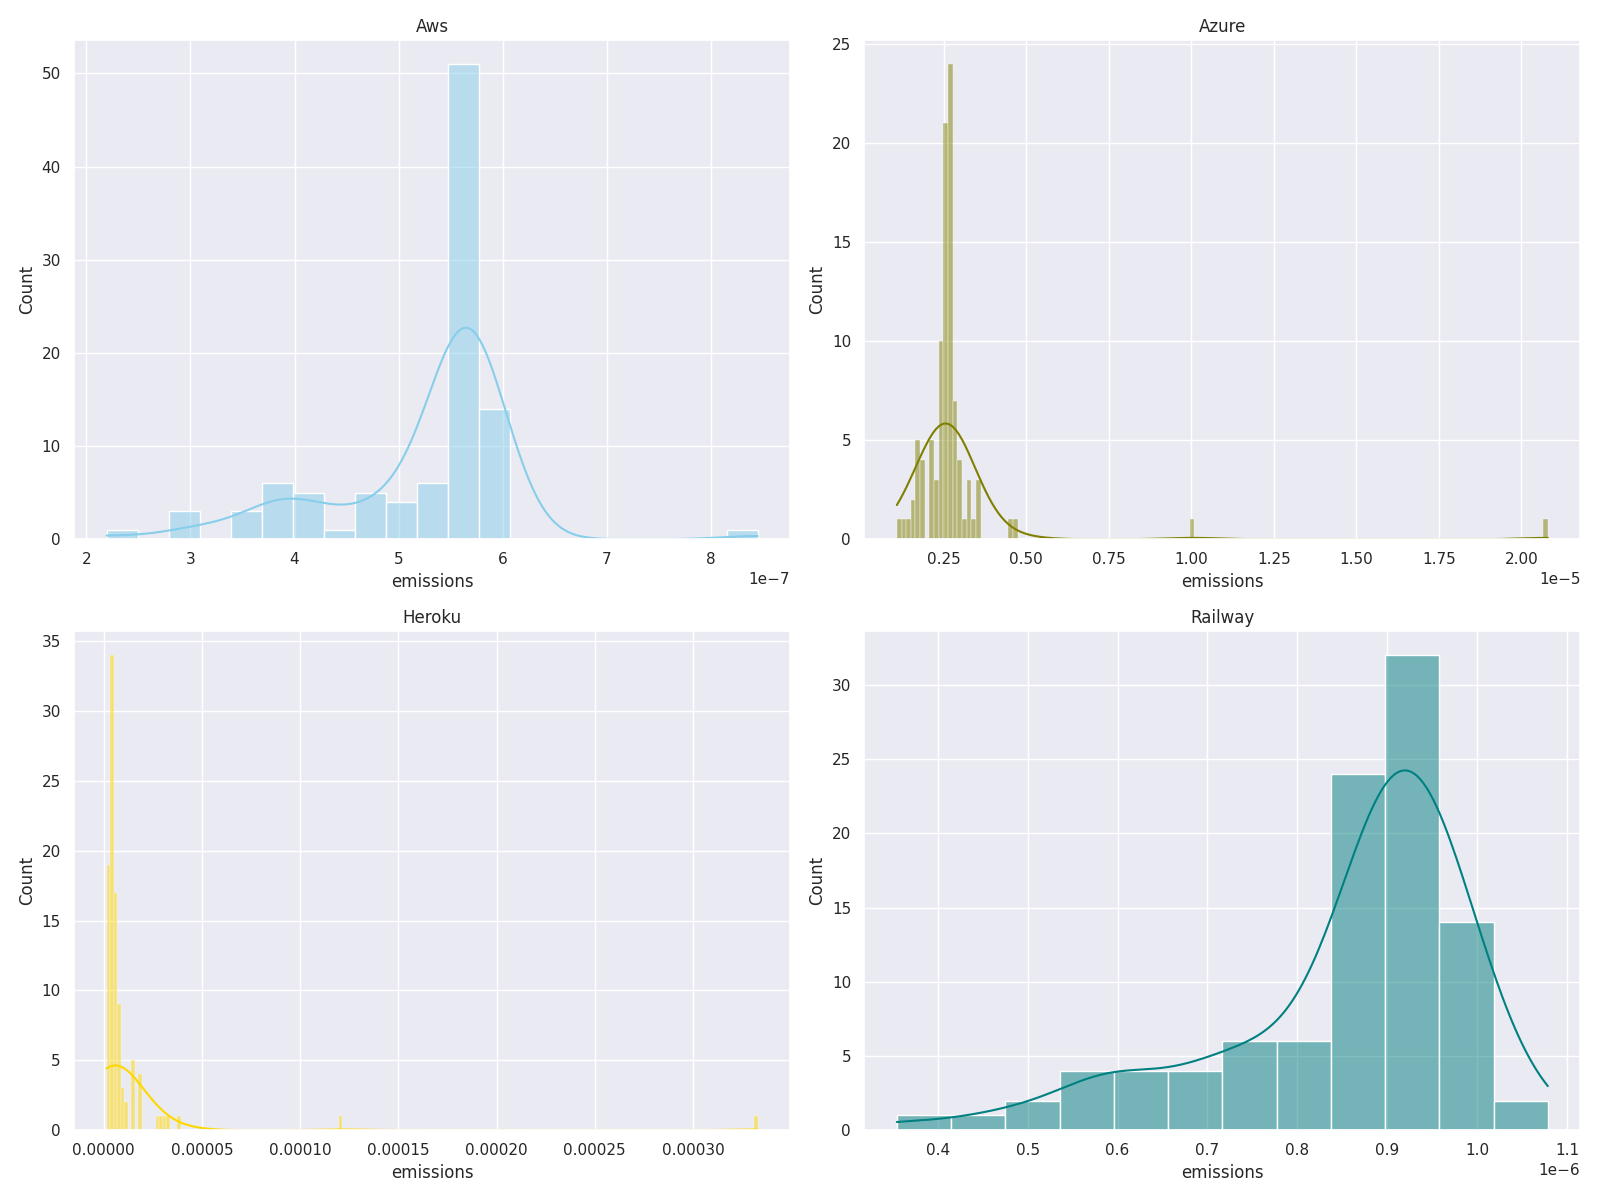
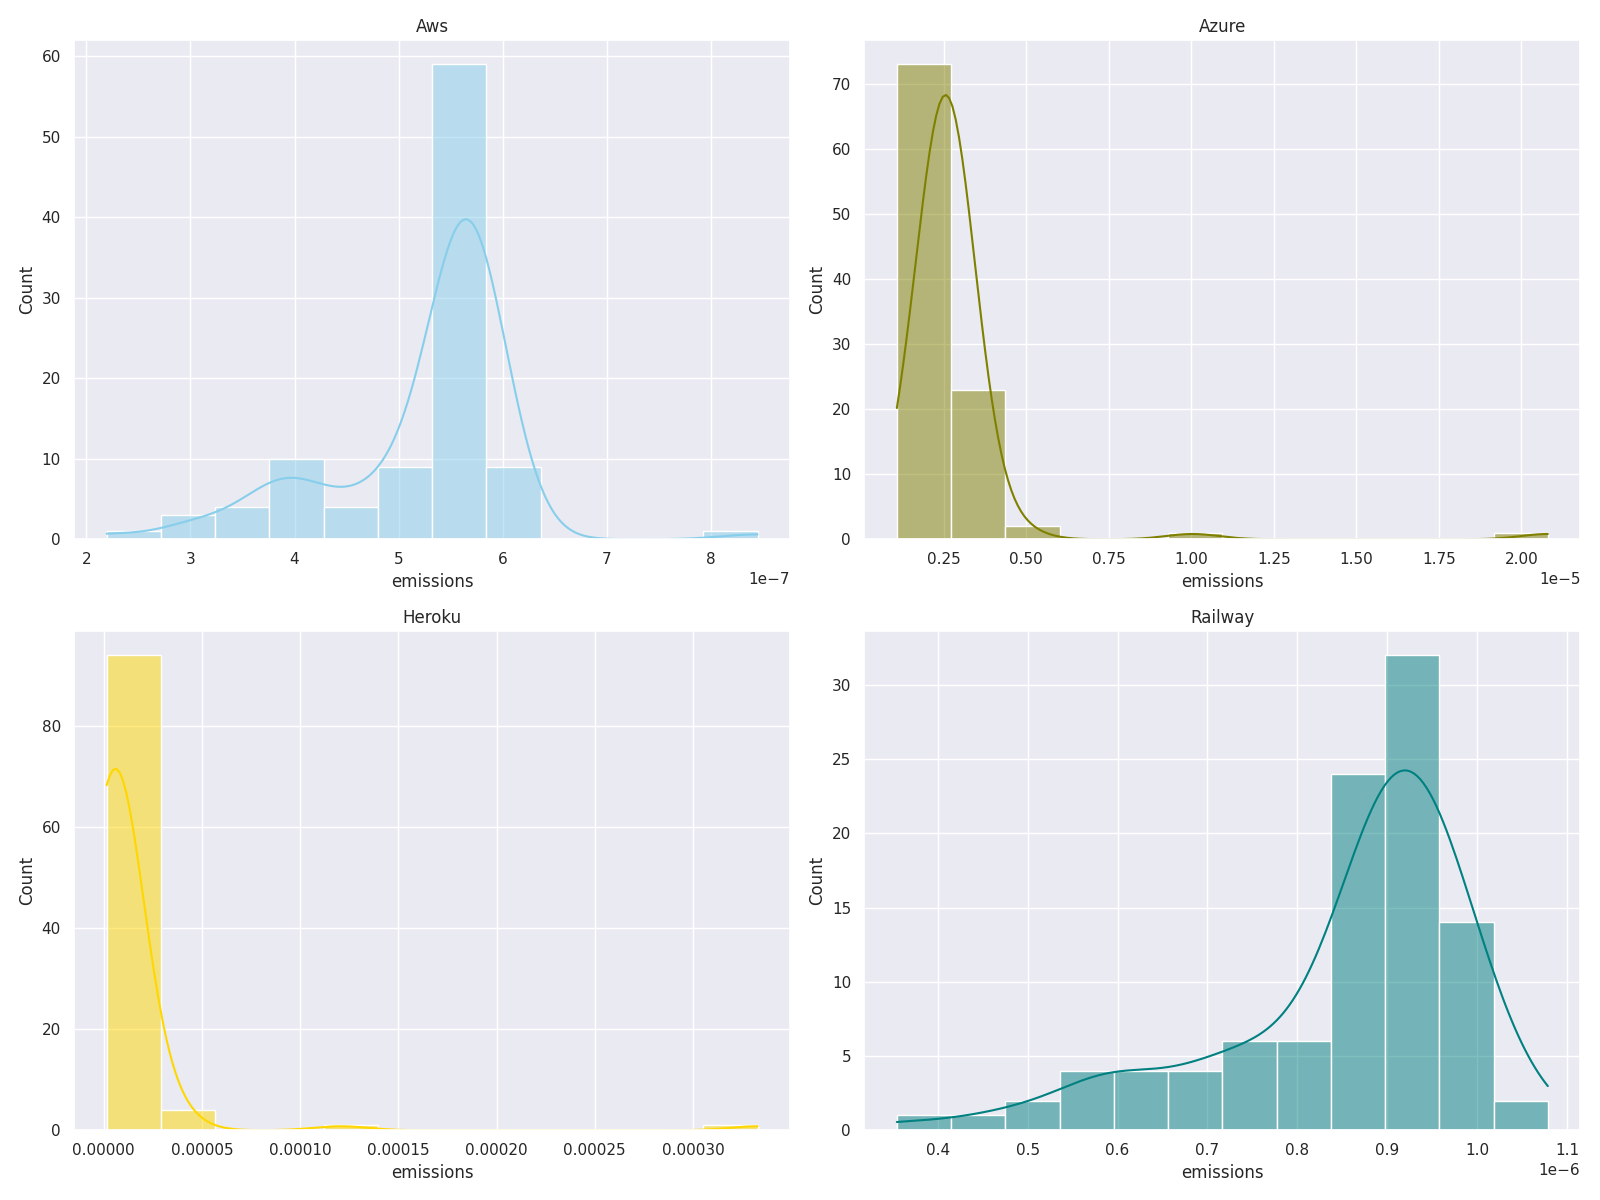
wip: change shown statistics in cliff test table

diff --git a/reports/report_figures/significance/dunn.html b/reports/report_figures/significance/dunn.html
@@ -1,11 +1,43 @@
+<link rel="stylesheet" type="text/css" href="df_style.css" />
+
 <table>
-<thead>
-<tr><th style="text-align: right;">        aws</th><th style="text-align: right;">      azure</th><th style="text-align: right;">     heroku</th><th style="text-align: right;">    railway</th></tr>
-</thead>
-<tbody>
-<tr><td style="text-align: right;">1          </td><td style="text-align: right;">8.68827e-36</td><td style="text-align: right;">1.84233e-67</td><td style="text-align: right;">1.13318e-07</td></tr>
-<tr><td style="text-align: right;">8.68827e-36</td><td style="text-align: right;">1          </td><td style="text-align: right;">8.3241e-06 </td><td style="text-align: right;">1.45247e-11</td></tr>
-<tr><td style="text-align: right;">1.84233e-67</td><td style="text-align: right;">8.3241e-06 </td><td style="text-align: right;">1          </td><td style="text-align: right;">1.55102e-31</td></tr>
-<tr><td style="text-align: right;">1.13318e-07</td><td style="text-align: right;">1.45247e-11</td><td style="text-align: right;">1.55102e-31</td><td style="text-align: right;">1          </td></tr>
-</tbody>
+  <thead>
+    <tr>
+      <th style="text-align: right"></th>
+      <th style="text-align: right">aws</th>
+      <th style="text-align: right">azure</th>
+      <th style="text-align: right">heroku</th>
+      <th style="text-align: right">railway</th>
+    </tr>
+  </thead>
+  <tbody>
+    <tr>
+      <td class="prov" style="text-align: right">aws</td>
+      <td style="text-align: right">1</td>
+      <td style="text-align: right">8.68827e-36</td>
+      <td style="text-align: right">1.84233e-67</td>
+      <td style="text-align: right">1.13318e-07</td>
+    </tr>
+    <tr>
+      <td class="prov" style="text-align: right">azure</td>
+      <td style="text-align: right">8.68827e-36</td>
+      <td style="text-align: right">1</td>
+      <td style="text-align: right">8.3241e-06</td>
+      <td style="text-align: right">1.45247e-11</td>
+    </tr>
+    <tr>
+      <td class="prov" style="text-align: right">heroku</td>
+      <td style="text-align: right">1.84233e-67</td>
+      <td style="text-align: right">8.3241e-06</td>
+      <td style="text-align: right">1</td>
+      <td style="text-align: right">1.55102e-31</td>
+    </tr>
+    <tr>
+      <td class="prov" style="text-align: right">railway</td>
+      <td style="text-align: right">1.13318e-07</td>
+      <td style="text-align: right">1.45247e-11</td>
+      <td style="text-align: right">1.55102e-31</td>
+      <td style="text-align: right">1</td>
+    </tr>
+  </tbody>
 </table>

diff --git a/reports/report_figures/significance/cliff.html b/reports/report_figures/significance/cliff.html
@@ -1,13 +1,34 @@
 <table>
-<thead>
-<tr><th>              </th><th>test_statistic    </th></tr>
-</thead>
-<tbody>
-<tr><td>aws-azure     </td><td>(-1.0, &#x27;large&#x27;)   </td></tr>
-<tr><td>aws-heroku    </td><td>(-1.0, &#x27;large&#x27;)   </td></tr>
-<tr><td>aws-railway   </td><td>(-0.9192, &#x27;large&#x27;)</td></tr>
-<tr><td>azure-heroku  </td><td>(-0.7892, &#x27;large&#x27;)</td></tr>
-<tr><td>azure-railway </td><td>(1.0, &#x27;large&#x27;)    </td></tr>
-<tr><td>heroku-railway</td><td>(1.0, &#x27;large&#x27;)    </td></tr>
-</tbody>
+  <thead>
+    <tr>
+      <th></th>
+      <th style="text-align: right">test_statistic</th>
+    </tr>
+  </thead>
+  <tbody>
+    <tr>
+      <td>aws-azure</td>
+      <td style="text-align: right">-1</td>
+    </tr>
+    <tr>
+      <td>aws-heroku</td>
+      <td style="text-align: right">-1</td>
+    </tr>
+    <tr>
+      <td>aws-railway</td>
+      <td style="text-align: right">-0.9192</td>
+    </tr>
+    <tr>
+      <td>azure-heroku</td>
+      <td style="text-align: right">-0.7892</td>
+    </tr>
+    <tr>
+      <td>azure-railway</td>
+      <td style="text-align: right">1</td>
+    </tr>
+    <tr>
+      <td>heroku-railway</td>
+      <td style="text-align: right">1</td>
+    </tr>
+  </tbody>
 </table>

diff --git a/reports/report_figures/significance/df_style.css b/reports/report_figures/significance/df_style.css
@@ -1,7 +1,7 @@
 table {
   font-family: "Times New Roman", Times, serif;
   border: 3px solid #000000;
-  width: 50%;
+  width: 25%;
   text-align: left;
   border-collapse: collapse;
 }
@@ -19,6 +19,16 @@ table thead {
   background: -webkit-linear-gradient(top, #dbdbdb 0%, #d3d3d3 66%, #cfcfcf 100%);
   background: linear-gradient(to bottom, #dbdbdb 0%, #d3d3d3 66%, #cfcfcf 100%);
   border-bottom: 3px solid #000000;
+}
+table .prov {
+  background: #cfcfcf;
+  background: -moz-linear-gradient(top, #dbdbdb 0%, #d3d3d3 66%, #cfcfcf 100%);
+  background: -webkit-linear-gradient(top, #dbdbdb 0%, #d3d3d3 66%, #cfcfcf 100%);
+  background: linear-gradient(to bottom, #dbdbdb 0%, #d3d3d3 66%, #cfcfcf 100%);
+  font-size: 15px;
+  font-weight: bold;
+  color: #000000;
+  text-align: left;
 }
 table thead th {
   font-size: 15px;

diff --git a/reports/report_figures/normality/df_style.css b/reports/report_figures/normality/df_style.css
@@ -1,7 +1,7 @@
 table {
   font-family: "Times New Roman", Times, serif;
   border: 3px solid #000000;
-  width: 50%;
+  width: 35%;
   text-align: left;
   border-collapse: collapse;
 }

diff --git a/reports/reports.py b/reports/reports.py
@@ -63,29 +63,28 @@ def gen_normality_results(providers):
     sns.set(style="darkgrid")
     my_pal = {"aws": "skyblue", "azure": "olive", "heroku": "gold", "railway": "teal"}
     df = pd.concat(providers, ignore_index=True)
-    violin = sns.violinplot(x="cloud_provider", y="energy_consumed", data=df, scale="width", palette=my_pal)
+    violin = sns.violinplot(x="cloud_provider", y="emissions", data=df, scale="width", palette=my_pal)
     figure = violin.get_figure()
-    figure.set_size_inches(14, 14)
+    figure.set_size_inches(10, 10)
+    figure.tight_layout()
     figure.savefig("report_figures/normality/violin_comb.png")
 
     fig, axs = plt.subplots(2, 2, figsize=(16, 12))
 
-    sns.histplot(data=aws, x="emissions", kde=True, color="skyblue", ax=axs[0, 0]).set(title="Aws")
-    sns.histplot(data=azure, x="emissions", kde=True, color="olive", ax=axs[0, 1]).set(title="Azure")
-    sns.histplot(data=heroku, x="emissions", kde=True, color="gold", ax=axs[1, 0]).set(title="Heroku")
-    sns.histplot(data=railway, x="emissions", kde=True, color="teal", ax=axs[1, 1]).set(title="Railway")
+    sns.histplot(data=aws, x="emissions", kde=True, color="skyblue", bins=12, ax=axs[0, 0]).set(title="Aws")
+    sns.histplot(data=azure, x="emissions", kde=True, color="olive", bins=12, ax=axs[0, 1]).set(title="Azure")
+    sns.histplot(data=heroku, x="emissions", kde=True, color="gold", bins=12, ax=axs[1, 0]).set(title="Heroku")
+    sns.histplot(data=railway, x="emissions", kde=True, color="teal", bins=12, ax=axs[1, 1]).set(title="Railway")
 
     fig.tight_layout()
     fig.savefig("report_figures/normality/histograms.png")
 
     sns.set(style="darkgrid")
-    fig2, axs2 = plt.subplots(2, 2, figsize=(16, 12))
-
+    fig2, axs2 = plt.subplots(2, 2, figsize=(10, 10))
     sns.violinplot(x="cloud_provider", y="emissions", color="skyblue", data=aws, scale="width", ax=axs2[0, 0])
     sns.violinplot(x="cloud_provider", y="emissions", color="olive", data=azure, scale="width", ax=axs2[0, 1])
     sns.violinplot(x="cloud_provider", y="emissions", color="gold", data=heroku, scale="width", ax=axs2[1, 0])
     sns.violinplot(x="cloud_provider", y="emissions", color="teal", data=railway, scale="width", ax=axs2[1, 1])
-    fig2.tight_layout()
 
     fig2.savefig("report_figures/normality/violinplots.png")
 
@@ -117,17 +116,18 @@ def test_significance(providers):
     )
 
     dunn = sp.posthoc_dunn(groups, p_adjust="bonferroni")
+    print(dunn)
     with open("report_figures/significance/dunn.html", "w") as f:
         f.write(tabulate(dunn, showindex=False, headers=["aws", "azure", "heroku", "railway"], tablefmt="html"))
     cliff = cd.cliffs_delta(providers[2].emissions, providers[3].emissions)
     print(cliff)
     cliff_test = [
-        ["aws-azure", cd.cliffs_delta(providers[0].emissions, providers[1].emissions)],
-        ["aws-heroku", cd.cliffs_delta(providers[0].emissions, providers[2].emissions)],
-        ["aws-railway", cd.cliffs_delta(providers[0].emissions, providers[3].emissions)],
-        ["azure-heroku", cd.cliffs_delta(providers[1].emissions, providers[2].emissions)],
-        ["azure-railway", cd.cliffs_delta(providers[1].emissions, providers[3].emissions)],
-        ["heroku-railway", cd.cliffs_delta(providers[2].emissions, providers[3].emissions)],
+        ["aws-azure", cd.cliffs_delta(providers[0].emissions, providers[1].emissions)[0]],
+        ["aws-heroku", cd.cliffs_delta(providers[0].emissions, providers[2].emissions)[0]],
+        ["aws-railway", cd.cliffs_delta(providers[0].emissions, providers[3].emissions)[0]],
+        ["azure-heroku", cd.cliffs_delta(providers[1].emissions, providers[2].emissions)[0]],
+        ["azure-railway", cd.cliffs_delta(providers[1].emissions, providers[3].emissions)[0]],
+        ["heroku-railway", cd.cliffs_delta(providers[2].emissions, providers[3].emissions)[0]],
     ]
     with open("report_figures/significance/cliff.html", "w") as f:
         f.write(
@@ -170,7 +170,7 @@ railway_lat = pd.read_csv(railway_lat)
 results = [aws, azure, heroku, railway]
 results_lat = {"aws": aws_lat, "azure": azure_lat, "heroku": heroku_lat, "railway": railway_lat}
 
-generate_summary(results, results_lat)
+# generate_summary(results, results_lat)
 gen_normality_results(results)
 
 test_significance(results)
